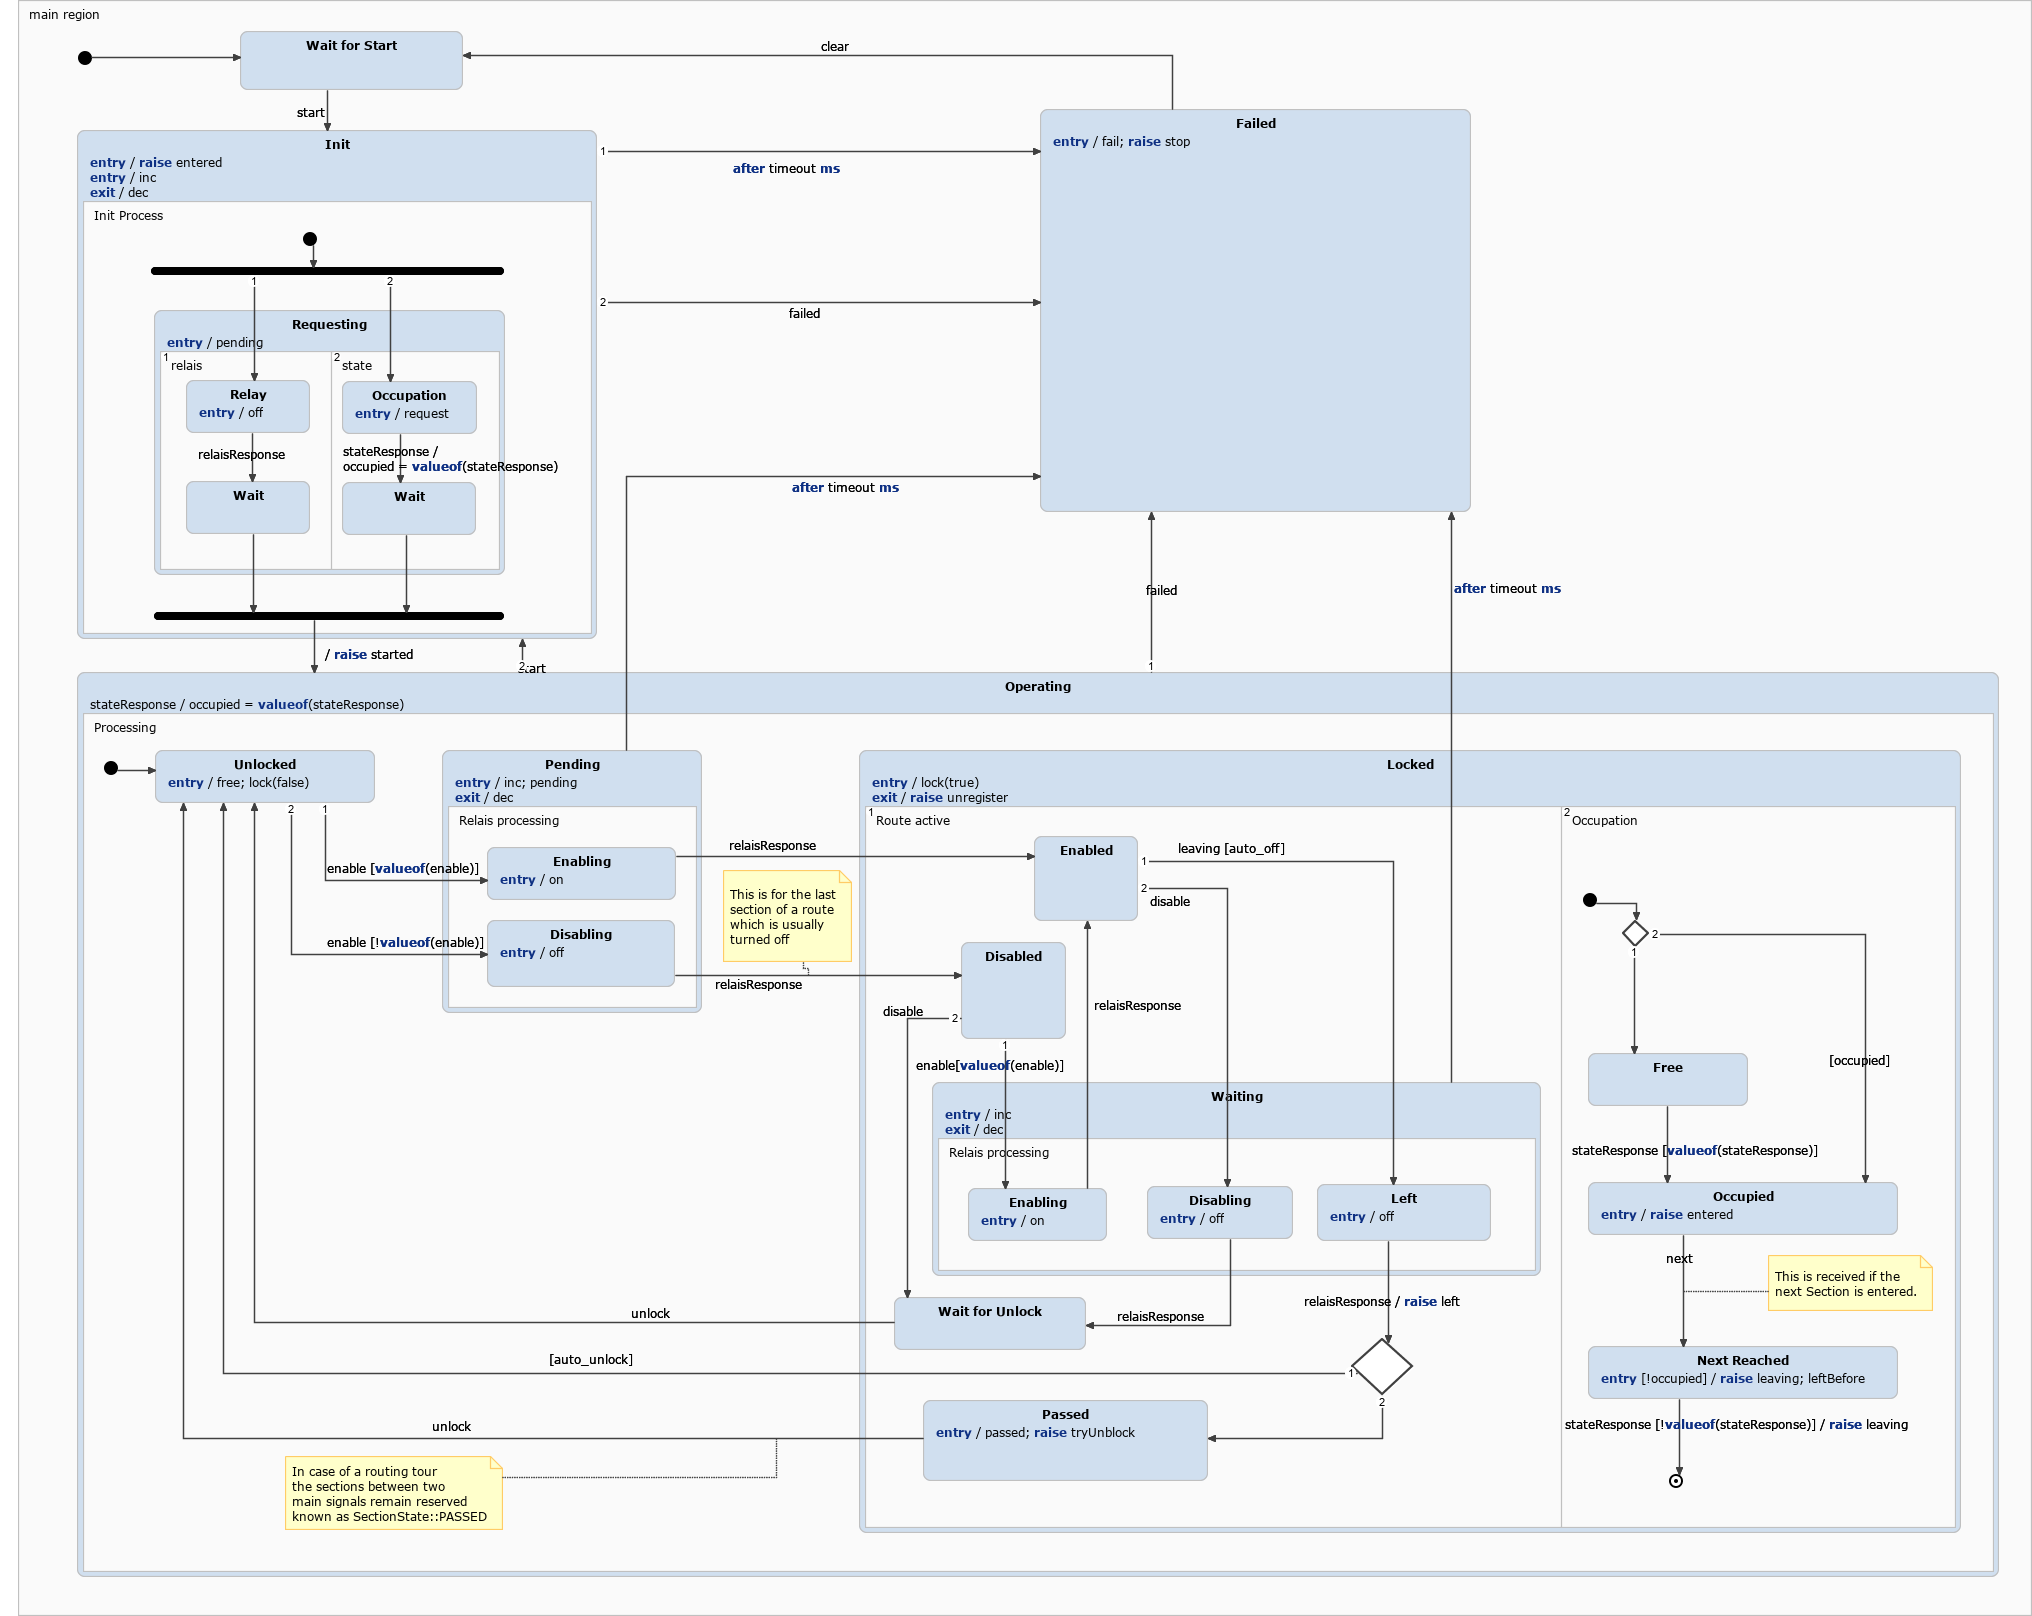
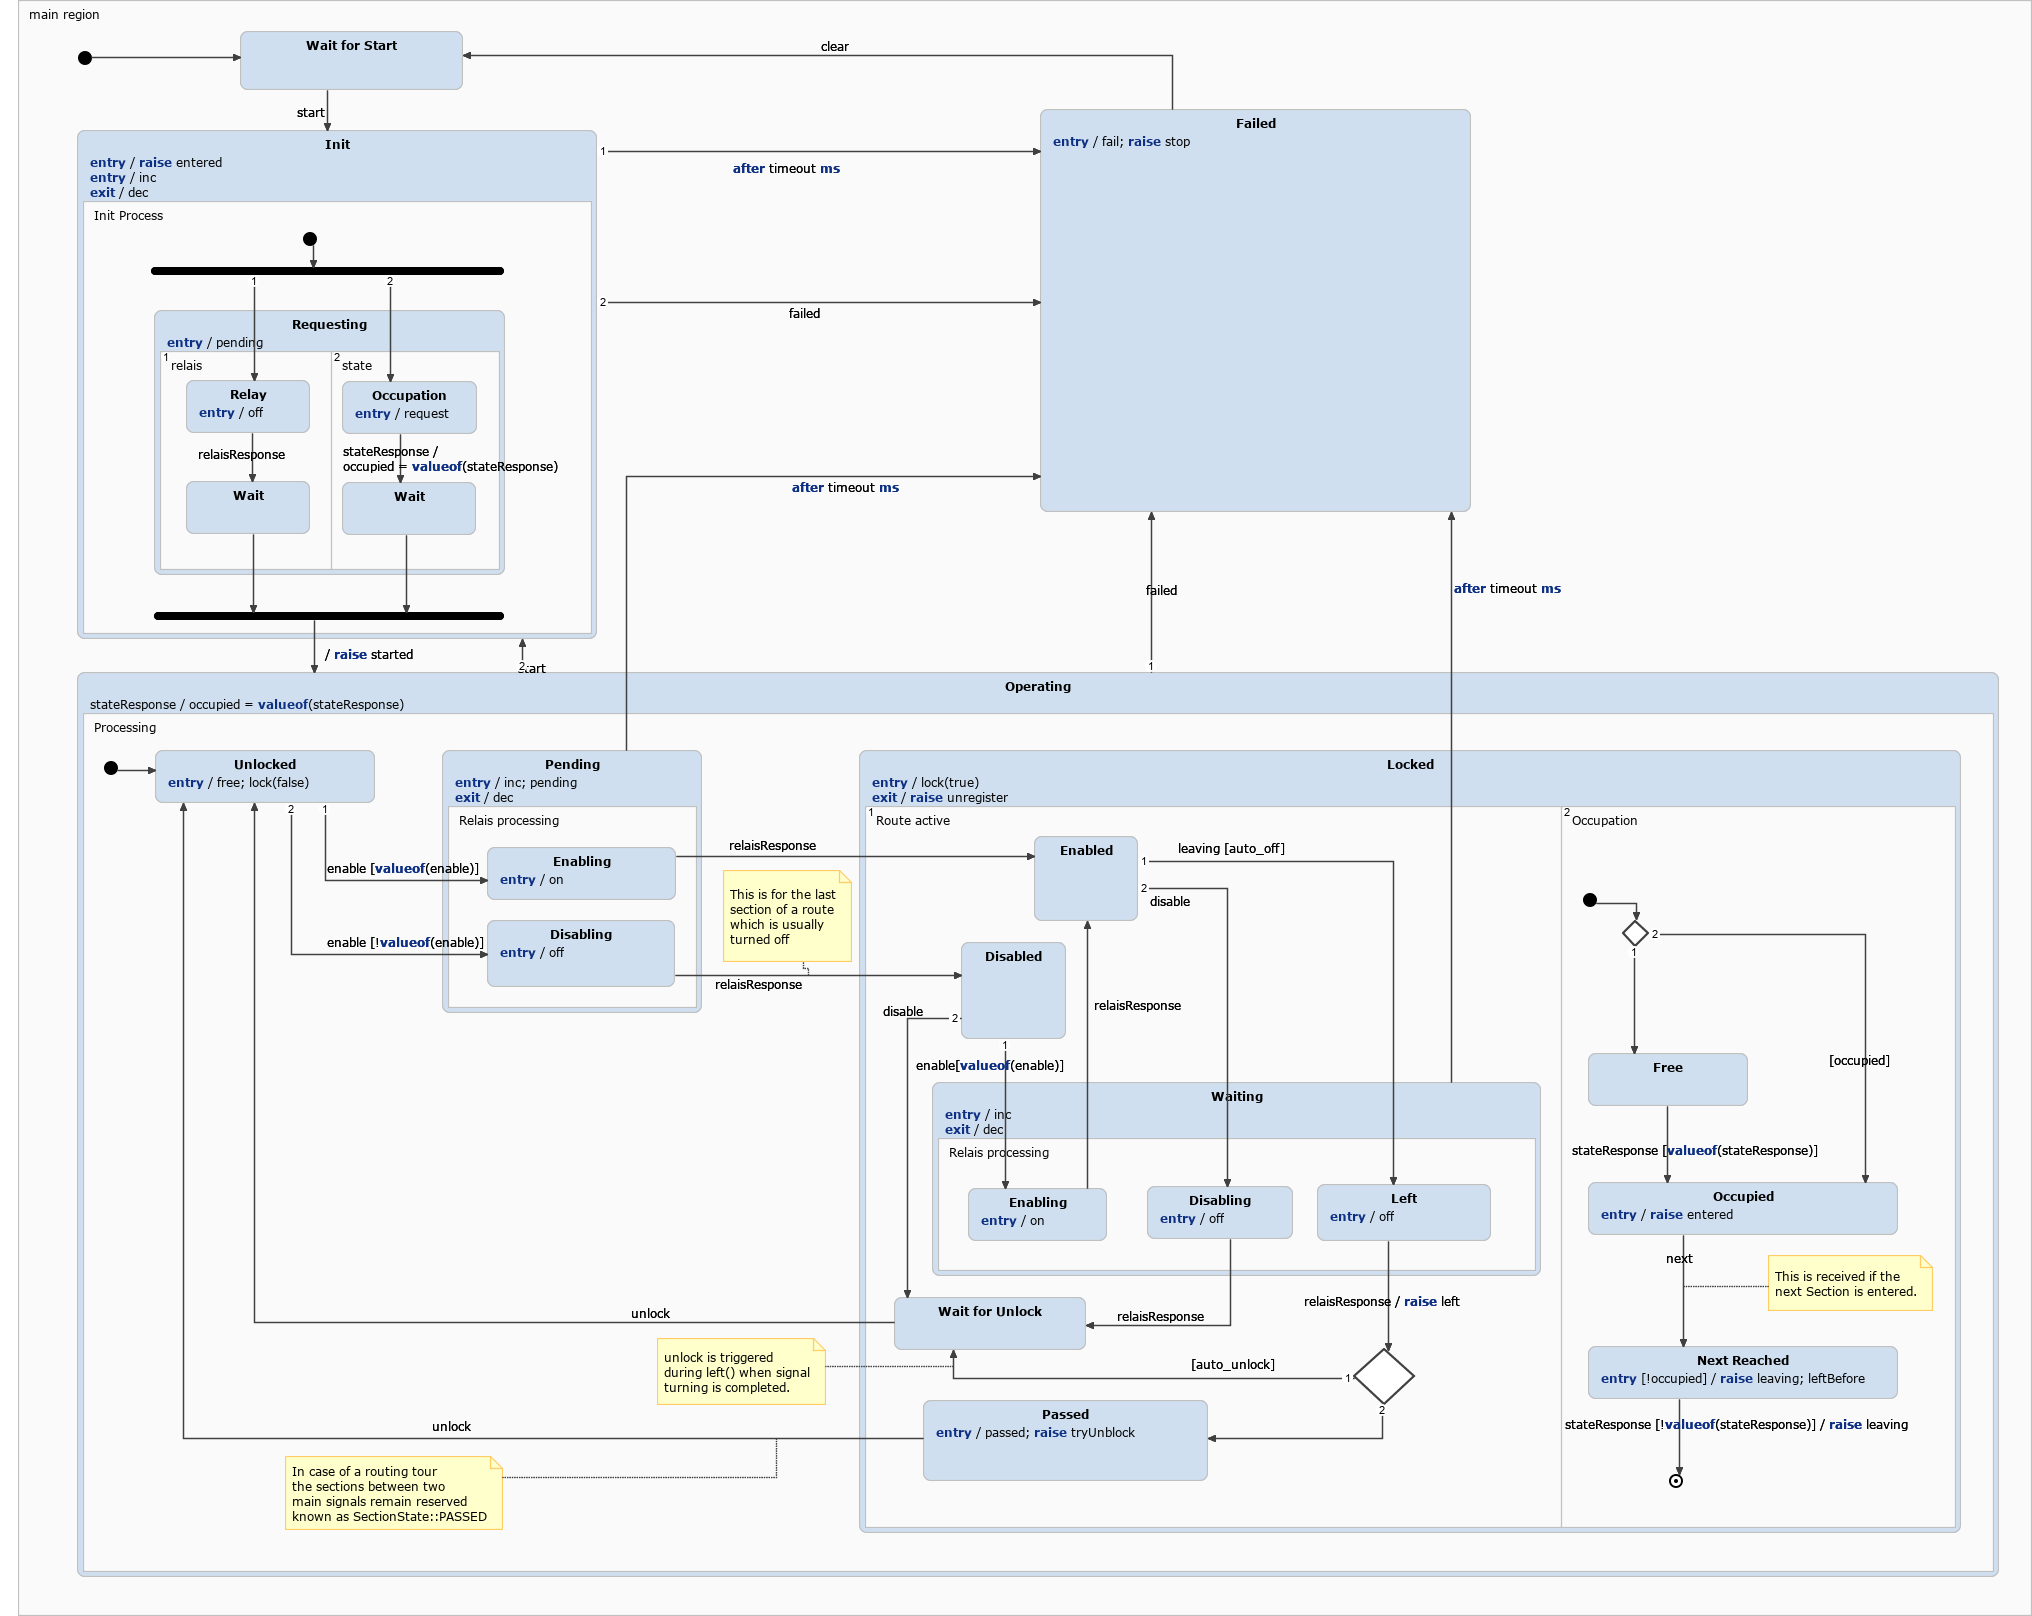
Better transaction handling while disabling signals.

Changed region(s): [[0.4651, 0.8354, 0.7131, 0.8663], [0.279, 0.8045, 0.4341, 0.8663]]

diff --git a/track-control/widgetroute.cpp b/track-control/widgetroute.cpp
@@ -277,10 +277,24 @@ void WidgetRoute::left()
 
 	if (signal_ctrl != nullptr)
 	{
-		// BUG: This is not transactional.
-		signal_ctrl->setBatch(nullptr);
+		RouteBatch * disable_batch = new RouteBatch(this);
+
+		connect (
+			disable_batch, &RouteBatch::completed,
+			section_ctrl, &SectionController::unlock,
+			Qt::QueuedConnection);
+		connect (
+			disable_batch, &RouteBatch::completed,
+			disable_batch, &RouteBatch::deleteLater,
+			Qt::QueuedConnection);
+
+		signal_ctrl->setBatch(disable_batch);
 		signal_ctrl->disable();
 		qDebug().noquote() << "Left sig.:  " << *signal_ctrl;
+	}
+	else
+	{
+		section_ctrl->unlock();
 	}
 	qDebug().noquote() << "Left sec.:  " << *section_ctrl;
 }

diff --git a/track-control/widgetroute.h b/track-control/widgetroute.h
@@ -8,6 +8,9 @@
 #ifndef WIDGETROUTE_H
 #define WIDGETROUTE_H
 
+#include <unordered_set>
+#include <vector>
+
 #include <QObject>
 #include <QListWidgetItem>
 
@@ -18,6 +21,8 @@
 #include <ctrl/batch.h>
 #include <ctrl/sectioncontroller.h>
 #include <ctrl/signalcontrollerproxy.h>
+
+#include "routebatch.h"
 
 class WidgetRoute :
 	public mrw::model::Route,
@@ -33,6 +38,8 @@ private:
 
 	std::vector<mrw::ctrl::SignalControllerProxy *> controllers_unlocked;
 	std::vector<mrw::ctrl::SignalControllerProxy *> controllers_locked;
+
+	std::unordered_set<RouteBatch *, RouteBatch> disable_batches;
 
 public:
 	static const int        USER_ROLE = Qt::UserRole + 1;

diff --git a/track-control/routebatch.h b/track-control/routebatch.h
@@ -1,0 +1,34 @@
+//
+//  SPDX-License-Identifier: MIT
+//  SPDX-FileCopyrightText: Copyright (C) 2008-2023 Steffen A. Mork
+//
+
+#pragma once
+
+#ifndef ROUTEBATCH_H
+#define ROUTEBATCH_H
+
+#include <QObject>
+#include <QDebug>
+
+#include <ctrl/batch.h>
+
+class RouteBatch : public QObject, public mrw::ctrl::Batch
+{
+	Q_OBJECT
+
+public:
+	explicit RouteBatch(QObject * parent = nullptr);
+
+	virtual ~RouteBatch();
+
+	inline std::size_t operator()(const RouteBatch * batch) const noexcept
+	{
+		return batch->id;
+	}
+
+signals:
+	void completed() const override;
+};
+
+#endif

diff --git a/statecharts/test/Section/SectionTest.cpp b/statecharts/test/Section/SectionTest.cpp
@@ -2551,11 +2551,7 @@ namespace mrw
 
 			statechart->raiseRelaisResponse();
 
-			EXPECT_TRUE(statechart->isStateActive(mrw::statechart::SectionStatechart::State::main_region_Operating));
-
-			EXPECT_TRUE(statechart->isStateActive(mrw::statechart::SectionStatechart::State::main_region_Operating_Processing_Unlocked));
-
-			EXPECT_TRUE(statechart->isRaisedUnregister());
+			EXPECT_TRUE(statechart->isStateActive(mrw::statechart::SectionStatechart::State::main_region_Operating_Processing_Locked_Route_active_Wait_for_Unlock));
 
 			EXPECT_TRUE(incMock->calledAtLeast(0));
 

diff --git a/statecharts/SectionStatechart.cpp b/statecharts/SectionStatechart.cpp
@@ -1533,9 +1533,7 @@ namespace mrw
 			/* The reactions of state null. */
 			if (auto_unlock)
 			{
-				exseq_main_region_Operating_Processing_Locked();
-				enseq_main_region_Operating_Processing_Unlocked_default();
-				main_region_Operating_react(0);
+				enseq_main_region_Operating_Processing_Locked_Route_active_Wait_for_Unlock_default();
 			}
 			else
 			{

diff --git a/statecharts/test/Section/SectionStatechart.cpp b/statecharts/test/Section/SectionStatechart.cpp
@@ -1582,9 +1582,7 @@ namespace mrw
 			/* The reactions of state null. */
 			if (auto_unlock)
 			{
-				exseq_main_region_Operating_Processing_Locked();
-				enseq_main_region_Operating_Processing_Unlocked_default();
-				main_region_Operating_react(0);
+				enseq_main_region_Operating_Processing_Locked_Route_active_Wait_for_Unlock_default();
 			}
 			else
 			{

diff --git a/track-control/routebatch.cpp b/track-control/routebatch.cpp
@@ -1,0 +1,15 @@
+//
+//  SPDX-License-Identifier: MIT
+//  SPDX-FileCopyrightText: Copyright (C) 2008-2023 Steffen A. Mork
+//
+
+#include "routebatch.h"
+
+RouteBatch::RouteBatch(QObject * parent) : QObject(parent)
+{
+}
+
+RouteBatch::~RouteBatch()
+{
+	qDebug("======================= Disable transaction (ID=%u) deleted.", id);
+}

diff --git a/track-control/ctrl/batch.h b/track-control/ctrl/batch.h
@@ -19,6 +19,8 @@ namespace mrw::ctrl
 	{
 		static std::atomic_uint32_t            counter;
 		std::unordered_set<BatchParticipant *> transaction;
+
+	protected:
 		const uint32_t                         id;
 
 	public:
